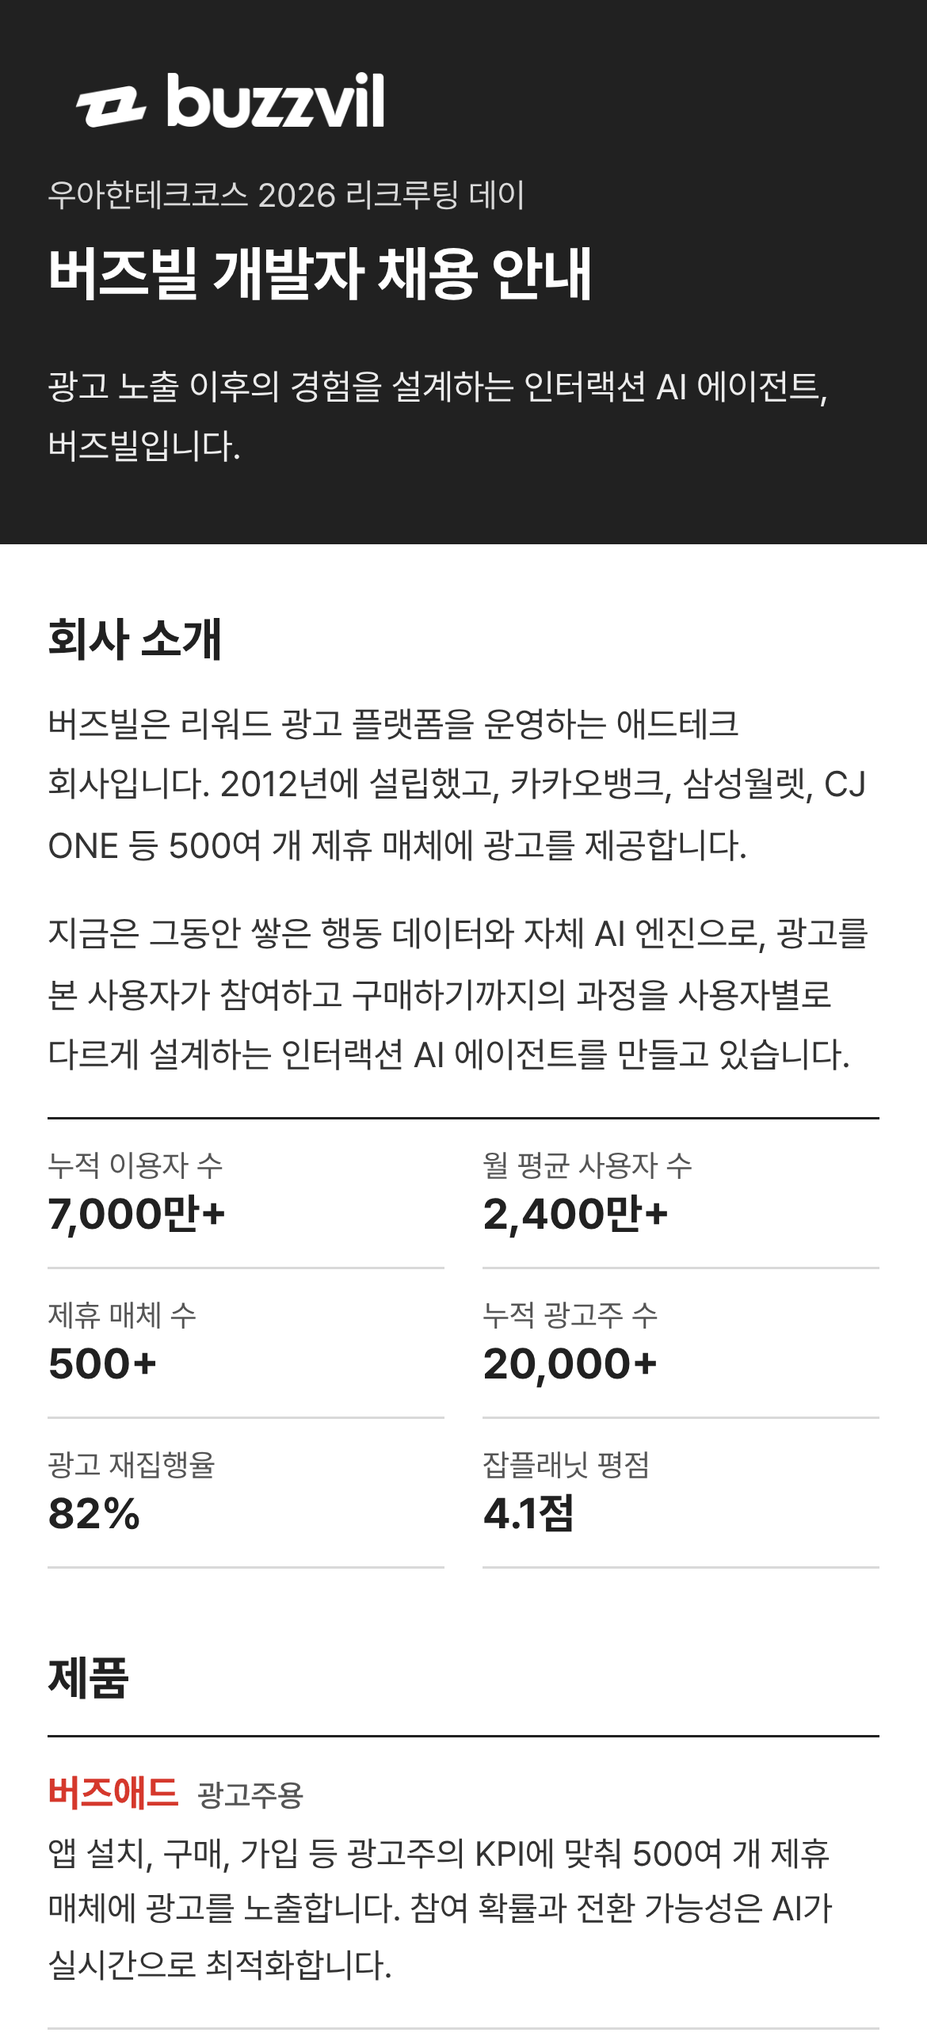
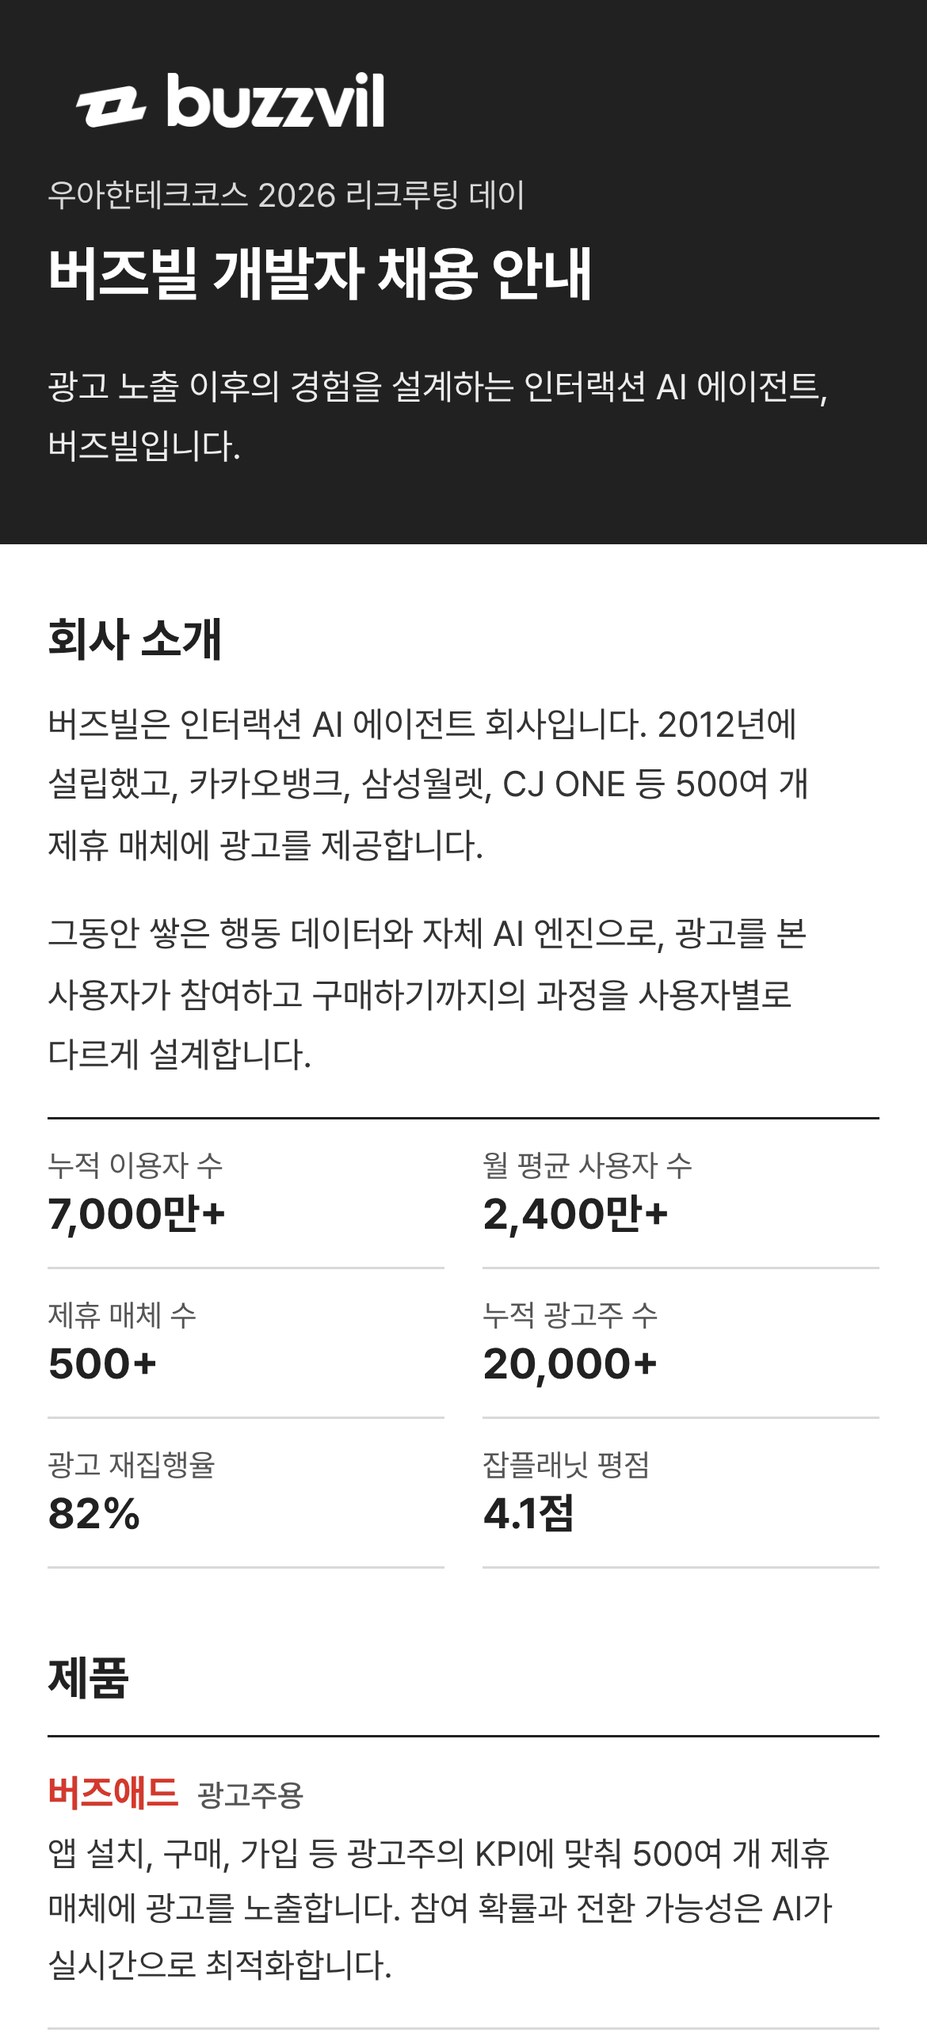
Add files via upload

Changed region(s): [[0.0615, 0.3411, 0.9538, 0.5271]]

diff --git a/index.html b/index.html
@@ -18,7 +18,7 @@ html,body{margin:0;background:#FFFFFF}
 <main class="wrap">
 <img src="s1.png" alt="" width="1170" height="2580"><img src="s2.png" alt="" width="1170" height="2580"><img src="s3.png" alt="" width="1170" height="2580"><img src="s4.png" alt="" width="1170" height="2580"><img src="s5.png" alt="" width="1170" height="2580"><img src="s6.png" alt="" width="1170" height="2580"><img src="s7.png" alt="" width="1170" height="2580"><img src="s8.png" alt="" width="1170" height="2580">
 <a href="https://buzzvil.career.greetinghr.com/ko/o/233330" aria-label="채용 공고 보기" style="left:5.128%;top:72.1285%;width:89.744%;height:0.6977%"></a><a href="https://buzzvil.career.greetinghr.com/ko/home" aria-label="채용 홈페이지" style="left:5.128%;top:96.0765%;width:89.744%;height:0.7267%"></a><a href="https://tech.buzzvil.com/" aria-label="테크 블로그" style="left:5.128%;top:96.9486%;width:89.744%;height:0.7267%"></a><a href="https://www.buzzvil.com/career/culture_blog" aria-label="피플 블로그" style="left:5.128%;top:97.8207%;width:89.744%;height:0.7267%"></a>
-<div class="sr">우아한테크코스 2026 리크루팅 데이<br>버즈빌 개발자 채용 안내<br><br>광고 노출 이후의 경험을 설계하는 인터랙션 AI 에이전트, 버즈빌입니다.<br><br>회사 소개<br><br>버즈빌은 리워드 광고 플랫폼을 운영하는 애드테크 회사입니다. 2012년에 설립했고, 카카오뱅크, 삼성월렛, CJ ONE 등 500여 개 제휴 매체에 광고를 제공합니다.<br><br>지금은 그동안 쌓은 행동 데이터와 자체 AI 엔진으로, 광고를 본 사용자가 참여하고 구매하기까지의 과정을 사용자별로 다르게 설계하는 인터랙션 AI 에이전트를 만들고 있습니다.<br><br>누적 이용자 수<br>7,000만+<br>월 평균 사용자 수<br>2,400만+<br>제휴 매체 수<br>500+<br>누적 광고주 수<br>20,000+<br>광고 재집행율<br>82%<br>잡플래닛 평점<br>4.1점<br>제품<br>버즈애드 광고주용<br><br>앱 설치, 구매, 가입 등 광고주의 KPI에 맞춰 500여 개 제휴 매체에 광고를 노출합니다. 참여 확률과 전환 가능성은 AI가 실시간으로 최적화합니다.<br><br>버즈베네핏 제휴 매체용<br><br>오퍼월을 포함한 여러 광고 지면을 SDK 하나로 연동하는 앱 수익화 솔루션입니다.<br><br>버즈빌의 독자적인 AI 엔진<br><br>사용자가 광고를 보기 전부터 구매하기까지, 단계마다 다른 AI 엔진이 사용자별 경험을 실시간으로 설계합니다.<br><br>다이내믹 리워드 (Dynamic Reward)<br><br>사용자와 캠페인 특성에 따라 리워드를 다르게 지급합니다. 이탈 직전 시점에는 보상을 조정하고, 부정 참여는 실시간으로 감지해 차단합니다. DQN과 LSTM 알고리즘을 사용합니다.<br><br>다이내믹 멀티미션 (Dynamic Multi-Mission)<br><br>사용자별로 참여 과정을 다르게 구성합니다. LSTM 모델로 이탈 징후를 감지하면 보너스 미션 등을 자동으로 투입합니다.<br><br>다이내믹 크리에이티브 (Dynamic Creative)<br><br>행동 데이터와 관심사를 분석해, 준비된 광고 소재 중 반응률이 높은 소재를 자동 매칭합니다. 클릭, 체류, 전환 데이터를 학습해 소재를 계속 개선합니다.<br><br>프리즘 (Prism)<br><br>사용자마다 상품, 메시지, 인터랙션을 새로 구성해 광고 소재 자체를 생성하는 초개인화 AI 엔진입니다. 자체 개발한 ‘컴포저(Composer)’가 관심 상품과 맥락에서 소구점을 찾고, LLM이 ‘고민 진단’, ‘대화형 추천’ 같은 소재로 자동 생성합니다. 광고 속 응답이 구매로 이어지는 흐름까지 분석해 설득 전략을 최적화합니다.<br><br>데이터와 기술<br><br>광고는 대용량 트래픽을 다루는 도메인입니다. 버즈빌에서는 매월 2,500만 명의 유저에게서 수십 억 건 이상의 데이터가 발생합니다.<br><br>2012년부터 쌓은 수십억 건의 사용자 행동, 보상 자사 데이터<br>500여 제휴 매체의 광고 데이터를 개인정보 공유 없이 학습하는 연합학습 체계<br>K-means, LSTM, DQN 기반 AI 엔진을 실제 서비스에 적용<br>리워드 최적 배분, 어뷰징 차단 등 핵심 로직 특허 보유<br>Performance Maximizer<br>유저 가치 추론 모델 기반의 타겟팅 시스템<br>Prediction Model<br>유저 특성, 행동 로그, 리워드 반응 데이터로 개별 유저의 광고 반응을 실시간 예측<br>Fraud Detection<br>부정 참여 가능성이 높은 행동을 실시간으로 판별해 리워드 광고를 자동 제한<br>개발 문화<br>AI 도구 지원<br><br>Claude Code Max($200 플랜), ChatGPT, Cursor, GitHub Copilot, CodeRabbit 등을 회사에서 지원합니다. 개발 직군이 아닌 구성원도 AI로 필요한 도구를 직접 만들어 씁니다.<br><br>코드 리뷰<br><br>모든 PR은 동료 1명 이상의 리뷰와 승인을 받은 뒤 반영합니다.<br><br>스터디와 세미나<br><br>사내 스터디와 세미나를 운영하고, 설계와 코드에 대해 함께 논의합니다.<br><br>직군 간 소통<br><br>직군과 관계없이 프로덕트 방향에 의견을 낼 수 있습니다. 새로운 기술 도입도 팀에서 제안해 검토합니다.<br><br>기술 스택<br>백엔드<br>Go(gRPC), Python(Django), MySQL, DynamoDB, Redis, Elasticsearch, Kafka<br>프론트엔드<br>TypeScript, React / Next.js, TanStack Query, Zustand, Tailwind CSS, shadcn/ui, Turborepo, Vitest, Playwright<br>클라이언트 (Android)<br>Kotlin(Java 병행), Coroutines, Dagger, Retrofit / OkHttp, AndroidX Lifecycle, Gradle, JUnit / MockK / Robolectric / Espresso, GitHub Actions<br>클라이언트 (iOS)<br>Swift(Obj-C 일부), UIKit, Combine, SwiftUI, CocoaPods, fastlane, GitHub Actions<br>머신러닝<br>Python, PyTorch, LightGBM, CatBoost, scikit-learn, Hugging Face Transformers, ONNX, Triton, SageMaker, MLflow, Bedrock, Airflow<br>DevOps<br>AWS(EKS), Kubernetes, Terraform, Helm, Argo CD, GitHub Actions, Datadog, Grafana, Prometheus, Loki, Sentry<br>참여하는 프로젝트에 따라 일부 다를 수 있습니다.<br>AI 활용 방식<br>동료의 리뷰봇에게 먼저 리뷰받습니다.<br><br>많은 개발자가 자기만의 리뷰 관점을 담은 코드 리뷰 봇을 운영합니다. 개발하면서 동료의 리뷰봇으로 리뷰를 받는 게 일상입니다.<br><br>AI와 함께 풀스택으로 일합니다.<br><br>인프라 생성부터 기획과 디자인까지 AI로 직접 해내도록 장려합니다. 직무 경계에 갇히지 않고 제품을 처음부터 끝까지 만듭니다.<br><br>일할수록 똑똑해지는 에이전트를 설계합니다.<br><br>코딩 에이전트 세션 로그에서 업무 지식을 자동으로 뽑아 knowledge base에 쌓는 파이프라인을 운영합니다. 에이전트가 이 지식을 다시 활용하므로 지식은 휘발되지 않고, 에이전트는 복리로 똑똑해집니다.<br><br>모집 포지션<br>[광고 운영 시스템] 백엔드 개발자<br><br>경력 무관이며 신입도 지원할 수 있습니다.<br>정규직 포지션입니다.<br><br>주요 업무<br>계정 시스템: 광고주와 운영자의 계정, 권한 관리, 제휴사 SSO 연동<br>광고 관리 시스템: 광고 생성과 관리, 지면 노출까지의 서빙 흐름 구축<br>정산 시스템: 제휴사 정산 시스템 연동, 자체 백업 정산 로직 개발<br>이벤트 페이지: 광고와 유저를 잇는 브릿지 페이지 생성 기능과 호스팅 시스템 개발<br>비즈채널: 외부 커머스 스토어 등과 연결해 광고 소재를 수급하고 광고주 자산을 관리하는 기능 개발<br><br>백엔드 개발이 중심이고, 제품 상황에 따라 어드민이나 이벤트 페이지 같은 프론트엔드를 포함한 풀스택으로 업무 범위가 넓어질 수 있습니다.<br><br>기술 스택<br><br>Kotlin, Go, Python(Django), MySQL, DynamoDB, Redis, Elasticsearch, Kafka<br><br>자격 요건<br>Kotlin, Go, Python 등 서버 언어 중 하나 이상으로 백엔드 시스템을 개발해 본 분 (프로젝트 경험 포함)<br>MySQL 등 관계형 DB와 Redis, DynamoDB 등 NoSQL을 사용해 본 분<br>외부 시스템과의 API 연동을 설계하고 개발해 본 분<br>프론트엔드 등 다른 기술 영역으로 넓혀 가는 데 열려 있는 분<br>여러 직군과 원활하게 협업할 수 있는 분<br>AI 도구를 적극적으로 활용해 생산성을 높이는 분<br>근무지<br><br>프로젝트 기간에는 제휴사 오피스에서, 프로젝트가 끝난 뒤에는 버즈빌 오피스에서 근무합니다.<br><br>채용 공고 보기<br>채용 절차<br>서류전형<br>이력서, 자기소개서, 포트폴리오 등 자유양식<br>사전과제<br>직무 적합도 판단을 위한 과제<br>1차 인터뷰 (Job-fit)<br>실무진 면접, 현장 코딩 테스트, 사전과제 리뷰<br>레퍼런스 체크<br>2차 종합 인터뷰 (Culture-fit)<br>직무 및 컬처핏 종합 인터뷰<br>처우협의<br>오퍼레터 전달<br>모든 전형의 합격, 불합격 결과는 영업일 10일 이내에 안내합니다.<br>입사 후 3개월은 프로베이션 기간입니다. 프로베이션 3개월의 근로계약을 먼저 작성하고, 통과하면 기간의 정함이 없는 정규직 계약서를 작성합니다.<br>프로베이션 통과 시 축하금 100만원을 지급합니다.<br>복지<br>몰입을 위한 최적의 환경을 제공합니다.<br>주 1회 전사 재택근무<br>오전 8시~10시 자율 출근<br>1시간 단위 연차 사용<br>3년 이상 근속 시 2주 리프레시 휴가<br>존중과 용기를 담아 커뮤니케이션 합니다.<br>격주 전체 회의에서 회사 정보 공유<br>분기별 OKR로 전사 우선순위 공유<br>전 구성원 영어 이름 사용<br>잘 먹고 잘 쉴 수 있도록 지원합니다.<br>점심 식대 지원<br>종합 건강검진, 전사 상해보험<br>간식과 음료 무제한 제공<br>휴게실, 수면실, 게임룸<br>석촌호수 도보 1분 거리<br>성장을 위해서라면 아끼지 않습니다.<br>AI 툴 적극 지원 (Claude Code Max $200 플랜, ChatGPT, Cursor, GitHub Copilot, CodeRabbit)<br>매월 자기계발비 10만원<br>자기계발 프로젝트 버즈챌린지<br>사내 스터디, 동호회 지원<br>외부 세미나, 컨퍼런스 교육비<br>도서 구매 무제한 지원<br>알찬 리워드 혜택과 함께합니다.<br>버즈빌 홈페이지 지원 시 리워드 100만원<br>인재 추천 리워드 최대 300만원<br>결혼 축하금 및 경조금 최대 100만원<br>본인 및 배우자 출산 시 선물 구독 서비스<br>블로그 포스팅, 브랜딩 활동 리워드<br>5년 이상 장기 근속 특별 리워드<br>지원 방법<br><br>채용 홈페이지에서 포지션을 확인하고 지원할 수 있습니다.<br><br>채용 홈페이지<br>테크 블로그<br>피플 블로그<br>채용 문의: recruit@buzzvil.com<br>사무실: 서울시 송파구 석촌호수로 272, 엠와이빌딩 2-5층</div>
+<div class="sr">우아한테크코스 2026 리크루팅 데이<br>버즈빌 개발자 채용 안내<br><br>광고 노출 이후의 경험을 설계하는 인터랙션 AI 에이전트, 버즈빌입니다.<br><br>회사 소개<br><br>버즈빌은 인터랙션 AI 에이전트 회사입니다. 2012년에 설립했고, 카카오뱅크, 삼성월렛, CJ ONE 등 500여 개 제휴 매체에 광고를 제공합니다.<br><br>그동안 쌓은 행동 데이터와 자체 AI 엔진으로, 광고를 본 사용자가 참여하고 구매하기까지의 과정을 사용자별로 다르게 설계합니다.<br><br>누적 이용자 수<br>7,000만+<br>월 평균 사용자 수<br>2,400만+<br>제휴 매체 수<br>500+<br>누적 광고주 수<br>20,000+<br>광고 재집행율<br>82%<br>잡플래닛 평점<br>4.1점<br>제품<br>버즈애드 광고주용<br><br>앱 설치, 구매, 가입 등 광고주의 KPI에 맞춰 500여 개 제휴 매체에 광고를 노출합니다. 참여 확률과 전환 가능성은 AI가 실시간으로 최적화합니다.<br><br>버즈베네핏 제휴 매체용<br><br>오퍼월을 포함한 여러 광고 지면을 SDK 하나로 연동하는 앱 수익화 솔루션입니다.<br><br>버즈빌의 독자적인 AI 엔진<br><br>사용자가 광고를 보기 전부터 구매하기까지, 단계마다 다른 AI 엔진이 사용자별 경험을 실시간으로 설계합니다.<br><br>다이내믹 리워드 (Dynamic Reward)<br><br>사용자와 캠페인 특성에 따라 리워드를 다르게 지급합니다. 이탈 직전 시점에는 보상을 조정하고, 부정 참여는 실시간으로 감지해 차단합니다. DQN과 LSTM 알고리즘을 사용합니다.<br><br>다이내믹 멀티미션 (Dynamic Multi-Mission)<br><br>사용자별로 참여 과정을 다르게 구성합니다. LSTM 모델로 이탈 징후를 감지하면 보너스 미션 등을 자동으로 투입합니다.<br><br>다이내믹 크리에이티브 (Dynamic Creative)<br><br>행동 데이터와 관심사를 분석해, 준비된 광고 소재 중 반응률이 높은 소재를 자동 매칭합니다. 클릭, 체류, 전환 데이터를 학습해 소재를 계속 개선합니다.<br><br>프리즘 (Prism)<br><br>사용자마다 상품, 메시지, 인터랙션을 새로 구성해 광고 소재 자체를 생성하는 초개인화 AI 엔진입니다. 자체 개발한 ‘컴포저(Composer)’가 관심 상품과 맥락에서 소구점을 찾고, LLM이 ‘고민 진단’, ‘대화형 추천’ 같은 소재로 자동 생성합니다. 광고 속 응답이 구매로 이어지는 흐름까지 분석해 설득 전략을 최적화합니다.<br><br>데이터와 기술<br><br>광고는 대용량 트래픽을 다루는 도메인입니다. 버즈빌에서는 매월 2,500만 명의 유저에게서 수십 억 건 이상의 데이터가 발생합니다.<br><br>2012년부터 쌓은 수십억 건의 사용자 행동, 보상 자사 데이터<br>500여 제휴 매체의 광고 데이터를 개인정보 공유 없이 학습하는 연합학습 체계<br>K-means, LSTM, DQN 기반 AI 엔진을 실제 서비스에 적용<br>리워드 최적 배분, 어뷰징 차단 등 핵심 로직 특허 보유<br>Performance Maximizer<br>유저 가치 추론 모델 기반의 타겟팅 시스템<br>Prediction Model<br>유저 특성, 행동 로그, 리워드 반응 데이터로 개별 유저의 광고 반응을 실시간 예측<br>Fraud Detection<br>부정 참여 가능성이 높은 행동을 실시간으로 판별해 리워드 광고를 자동 제한<br>개발 문화<br>AI 도구 지원<br><br>Claude Code Max($200 플랜), ChatGPT, Cursor, GitHub Copilot, CodeRabbit 등을 회사에서 지원합니다. 개발 직군이 아닌 구성원도 AI로 필요한 도구를 직접 만들어 씁니다.<br><br>코드 리뷰<br><br>모든 PR은 동료 1명 이상의 리뷰와 승인을 받은 뒤 반영합니다.<br><br>스터디와 세미나<br><br>사내 스터디와 세미나를 운영하고, 설계와 코드에 대해 함께 논의합니다.<br><br>직군 간 소통<br><br>직군과 관계없이 프로덕트 방향에 의견을 낼 수 있습니다. 새로운 기술 도입도 팀에서 제안해 검토합니다.<br><br>기술 스택<br>백엔드<br>Go(gRPC), Python(Django), MySQL, DynamoDB, Redis, Elasticsearch, Kafka<br>프론트엔드<br>TypeScript, React / Next.js, TanStack Query, Zustand, Tailwind CSS, shadcn/ui, Turborepo, Vitest, Playwright<br>클라이언트 (Android)<br>Kotlin(Java 병행), Coroutines, Dagger, Retrofit / OkHttp, AndroidX Lifecycle, Gradle, JUnit / MockK / Robolectric / Espresso, GitHub Actions<br>클라이언트 (iOS)<br>Swift(Obj-C 일부), UIKit, Combine, SwiftUI, CocoaPods, fastlane, GitHub Actions<br>머신러닝<br>Python, PyTorch, LightGBM, CatBoost, scikit-learn, Hugging Face Transformers, ONNX, Triton, SageMaker, MLflow, Bedrock, Airflow<br>DevOps<br>AWS(EKS), Kubernetes, Terraform, Helm, Argo CD, GitHub Actions, Datadog, Grafana, Prometheus, Loki, Sentry<br>참여하는 프로젝트에 따라 일부 다를 수 있습니다.<br>AI 활용 방식<br>동료의 리뷰봇에게 먼저 리뷰받습니다.<br><br>많은 개발자가 자기만의 리뷰 관점을 담은 코드 리뷰 봇을 운영합니다. 개발하면서 동료의 리뷰봇으로 리뷰를 받는 게 일상입니다.<br><br>AI와 함께 풀스택으로 일합니다.<br><br>인프라 생성부터 기획과 디자인까지 AI로 직접 해내도록 장려합니다. 직무 경계에 갇히지 않고 제품을 처음부터 끝까지 만듭니다.<br><br>일할수록 똑똑해지는 에이전트를 설계합니다.<br><br>코딩 에이전트 세션 로그에서 업무 지식을 자동으로 뽑아 knowledge base에 쌓는 파이프라인을 운영합니다. 에이전트가 이 지식을 다시 활용하므로 지식은 휘발되지 않고, 에이전트는 복리로 똑똑해집니다.<br><br>모집 포지션<br>[광고 운영 시스템] 백엔드 개발자<br><br>경력 무관이며 신입도 지원할 수 있습니다.<br>정규직 포지션입니다.<br><br>주요 업무<br>계정 시스템: 광고주와 운영자의 계정, 권한 관리, 제휴사 SSO 연동<br>광고 관리 시스템: 광고 생성과 관리, 지면 노출까지의 서빙 흐름 구축<br>정산 시스템: 제휴사 정산 시스템 연동, 자체 백업 정산 로직 개발<br>이벤트 페이지: 광고와 유저를 잇는 브릿지 페이지 생성 기능과 호스팅 시스템 개발<br>비즈채널: 외부 커머스 스토어 등과 연결해 광고 소재를 수급하고 광고주 자산을 관리하는 기능 개발<br><br>백엔드 개발이 중심이고, 제품 상황에 따라 어드민이나 이벤트 페이지 같은 프론트엔드를 포함한 풀스택으로 업무 범위가 넓어질 수 있습니다.<br><br>기술 스택<br><br>Kotlin, Go, Python(Django), MySQL, DynamoDB, Redis, Elasticsearch, Kafka<br><br>자격 요건<br>Kotlin, Go, Python 등 서버 언어 중 하나 이상으로 백엔드 시스템을 개발해 본 분 (프로젝트 경험 포함)<br>MySQL 등 관계형 DB와 Redis, DynamoDB 등 NoSQL을 사용해 본 분<br>외부 시스템과의 API 연동을 설계하고 개발해 본 분<br>프론트엔드 등 다른 기술 영역으로 넓혀 가는 데 열려 있는 분<br>여러 직군과 원활하게 협업할 수 있는 분<br>AI 도구를 적극적으로 활용해 생산성을 높이는 분<br>근무지<br><br>프로젝트 기간에는 제휴사 오피스에서, 프로젝트가 끝난 뒤에는 버즈빌 오피스에서 근무합니다.<br><br>채용 공고 보기<br>채용 절차<br>서류전형<br>이력서, 자기소개서, 포트폴리오 등 자유양식<br>사전과제<br>직무 적합도 판단을 위한 과제<br>1차 인터뷰 (Job-fit)<br>실무진 면접, 현장 코딩 테스트, 사전과제 리뷰<br>레퍼런스 체크<br>2차 종합 인터뷰 (Culture-fit)<br>직무 및 컬처핏 종합 인터뷰<br>처우협의<br>오퍼레터 전달<br>모든 전형의 합격, 불합격 결과는 영업일 10일 이내에 안내합니다.<br>입사 후 3개월은 프로베이션 기간입니다. 프로베이션 3개월의 근로계약을 먼저 작성하고, 통과하면 기간의 정함이 없는 정규직 계약서를 작성합니다.<br>프로베이션 통과 시 축하금 100만원을 지급합니다.<br>복지<br>몰입을 위한 최적의 환경을 제공합니다.<br>주 1회 전사 재택근무<br>오전 8시~10시 자율 출근<br>1시간 단위 연차 사용<br>3년 이상 근속 시 2주 리프레시 휴가<br>존중과 용기를 담아 커뮤니케이션 합니다.<br>격주 전체 회의에서 회사 정보 공유<br>분기별 OKR로 전사 우선순위 공유<br>전 구성원 영어 이름 사용<br>잘 먹고 잘 쉴 수 있도록 지원합니다.<br>점심 식대 지원<br>종합 건강검진, 전사 상해보험<br>간식과 음료 무제한 제공<br>휴게실, 수면실, 게임룸<br>석촌호수 도보 1분 거리<br>성장을 위해서라면 아끼지 않습니다.<br>AI 툴 적극 지원 (Claude Code Max $200 플랜, ChatGPT, Cursor, GitHub Copilot, CodeRabbit)<br>매월 자기계발비 10만원<br>자기계발 프로젝트 버즈챌린지<br>사내 스터디, 동호회 지원<br>외부 세미나, 컨퍼런스 교육비<br>도서 구매 무제한 지원<br>알찬 리워드 혜택과 함께합니다.<br>버즈빌 홈페이지 지원 시 리워드 100만원<br>인재 추천 리워드 최대 300만원<br>결혼 축하금 및 경조금 최대 100만원<br>본인 및 배우자 출산 시 선물 구독 서비스<br>블로그 포스팅, 브랜딩 활동 리워드<br>5년 이상 장기 근속 특별 리워드<br>지원 방법<br><br>채용 홈페이지에서 포지션을 확인하고 지원할 수 있습니다.<br><br>채용 홈페이지<br>테크 블로그<br>피플 블로그<br>채용 문의: recruit@buzzvil.com<br>사무실: 서울시 송파구 석촌호수로 272, 엠와이빌딩 2-5층</div>
 </main>
 </body>
 </html>
